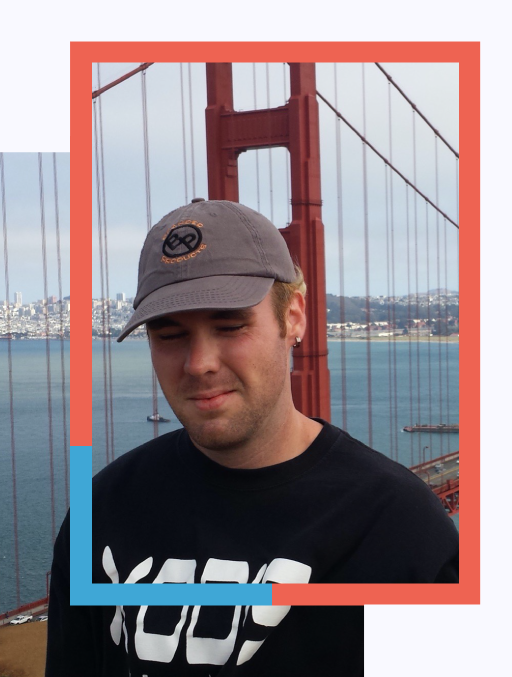
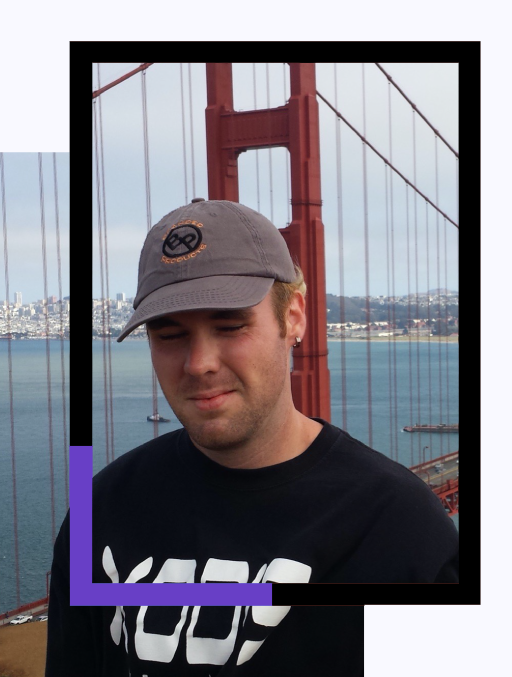
feat: color change to full black view

Changed region(s): [[0.125, 0.062, 0.9375, 0.8996]]

diff --git a/src/app/header/header.component.scss b/src/app/header/header.component.scss
@@ -28,7 +28,8 @@
         margin-right: 45px;
         .nav-link {
           font: 500 12px/100px $primary-font;
-          color: #000;
+          color: #FFFFFF;
+        text-shadow: 0 0 1px #000;
           padding: 0px;
           display: inline-block;
           font-size: 16px;
@@ -38,8 +39,10 @@
         }
         &:hover,
         &.active {
-          .nav-link {
-            color: #ffffff;
+          .nav-text {
+            border-bottom: 1px solid #FFFFFF;
+            color: #FFFFFF;
+            padding-bottom: 5px;
           }
         }
         &.submenu {
@@ -122,17 +125,6 @@
         &:last-child {
           margin-right: 0px;
         }
-      }
-    }
-  }
-
-  &.header-home-page {
-    &:not(.navbar_fixed) .nav-item .nav-link {
-      color: #FFF !important;
-      text-shadow: 0 0 1px #000;
-
-      &:hover {
-        text-decoration: underline;
       }
     }
   }
@@ -277,7 +269,7 @@
   }
   .header_area .navbar-collapse {
       max-height: 340px;
-      overflow-y: scroll;
+      overflow-y: hidden;
   }
   .header_area .navbar .nav .nav-item.submenu ul .nav-item .nav-link {
       padding: 0px 15px;

diff --git a/src/app/header/header.component.html b/src/app/header/header.component.html
@@ -11,7 +11,9 @@
         <div class="collapse navbar-collapse offset" id="navbarSupportedContent">
           <ul class="nav navbar-nav menu_nav justify-content-end">
             <li *ngFor="let menuItem of menuItems" class="nav-item" [ngClass]="{'active': isActiveRoute(menuItem)}">
-              <a class="nav-link" (click)="routeClick()" [routerLink]="menuItem.link">{{menuItem.name}}</a>
+              <a class="nav-link" (click)="routeClick()" [routerLink]="menuItem.link">
+                <span class="nav-text">{{menuItem.name}}</span>
+              </a>
             </li>
           </ul>
         </div>

diff --git a/src/app/portfolio/portfolio.component.scss b/src/app/portfolio/portfolio.component.scss
@@ -1,7 +1,7 @@
 @import '../variables';
 
 .projects_fillter {
-  background: $primary-color2;
+  background: #000000;
   .filter {
     position: relative;
     text-align: center;
@@ -24,7 +24,7 @@
       display: inline-block;
       margin-right: 30px;
       font-size: 14px;
-      color: #000;
+      color: #FFFFFF;
       text-transform: uppercase;
       padding: 3px 5px;
       transition: background-color 500ms;
@@ -34,7 +34,7 @@
       }
       &.active,
       &:hover {
-        background-color: $primary-color4;
+        background-color: rgb(87, 87, 87);
       }
     }
   }

diff --git a/src/app/breadcrumbs/breadcrumbs.component.scss b/src/app/breadcrumbs/breadcrumbs.component.scss
@@ -2,13 +2,13 @@
 
 .page_link {
   display: inline-block;
-  border: 2px solid #000;
+  border: 2px solid #FFF;
   border-radius: 50px;
   padding: 0px 20px;
   line-height: 46px;
   a {
       font-size: 14px;
-      color: #000;
+      color: #FFF;
       font-family: $primary-font;
       margin-right: 14px;
       position: relative;
@@ -19,7 +19,7 @@
           width: 1px;
           right: -10px;
           top: 54%;
-          background: #000;
+          background: #FFF;
           @include transform(translateY(-50%));
       }
       &:last-child {

diff --git a/src/app/footer/footer.component.html b/src/app/footer/footer.component.html
@@ -19,7 +19,7 @@
           <p>
             <!-- Link back to Colorlib can't be removed. Template is licensed under CC BY 3.0. -->
             Copyright &copy;{{getYear()}} David Bradshaw. All rights reserved.<br>
-            This template is made by <a href="https://colorlib.com" target="_blank">Colorlib</a>
+            This template is based on <a href="https://colorlib.com" target="_blank">Colorlib</a>
             <!-- Link back to Colorlib can't be removed. Template is licensed under CC BY 3.0. -->
           </p>
         </div>

diff --git a/src/app/footer/footer.component.scss b/src/app/footer/footer.component.scss
@@ -1,7 +1,7 @@
 @import '../variables';
 
 .footer_area{
-  background: $primary-color2;
+  background: #000000;
 
   .f_logo img {
     width: 60px;
@@ -13,7 +13,7 @@
 		h4{
 			font-size: 21px;
 			margin: 40px 0 20px;
-			color: #000;
+			color: #FFF;
 		}
 	}
 	p{
@@ -46,7 +46,7 @@
 .copyright{
 	margin-top: 40px;
 	p{
-		color: #000;
+		color: #FFF;
 		a{
 			color: $primary-color;
 		}

diff --git a/src/app/banner/banner.component.scss b/src/app/banner/banner.component.scss
@@ -51,7 +51,7 @@
       margin: 0 15px;
 
       h1, h3 {
-        color: #000 !important;
+        color: #fff !important;
       }
   }
   .primary-btn {
@@ -103,7 +103,7 @@
       z-index: 1;
       .banner_content {
           h1 {
-              color: #000;
+              color: #fff;
               font-size: 60px;
               margin-bottom: 20px;
               font-weight: 600;

diff --git a/src/app/portfolio-item/portfolio-item.component.scss b/src/app/portfolio-item/portfolio-item.component.scss
@@ -153,9 +153,9 @@
       cursor: pointer;
       font-size: 18px;
       i {
-        color: $primary-color3 !important;
+        color: $primary-color !important;
         &:hover {
-          color: $primary-color !important;
+          color: $primary-color3 !important;
         }
       }
     }

diff --git a/src/app/variables.scss b/src/app/variables.scss
@@ -5,7 +5,7 @@ $title-font: 'Montserrat', sans-serif;
 $primary-color: #683fc6;
 $primary-color2: #3fa7d6;
 $primary-color3: #cd5c69;
-$primary-color4: #ee6352;
+$primary-color4: #000000;
 $primary-color5: #59cd90;
 $title-color: #222222;
 $text-color: #777777;

diff --git a/src/app/contact/contact.component.scss b/src/app/contact/contact.component.scss
@@ -82,6 +82,7 @@
 
       &:disabled {
         opacity: 0.6;
+        cursor: not-allowed;
       }
   }
 }
